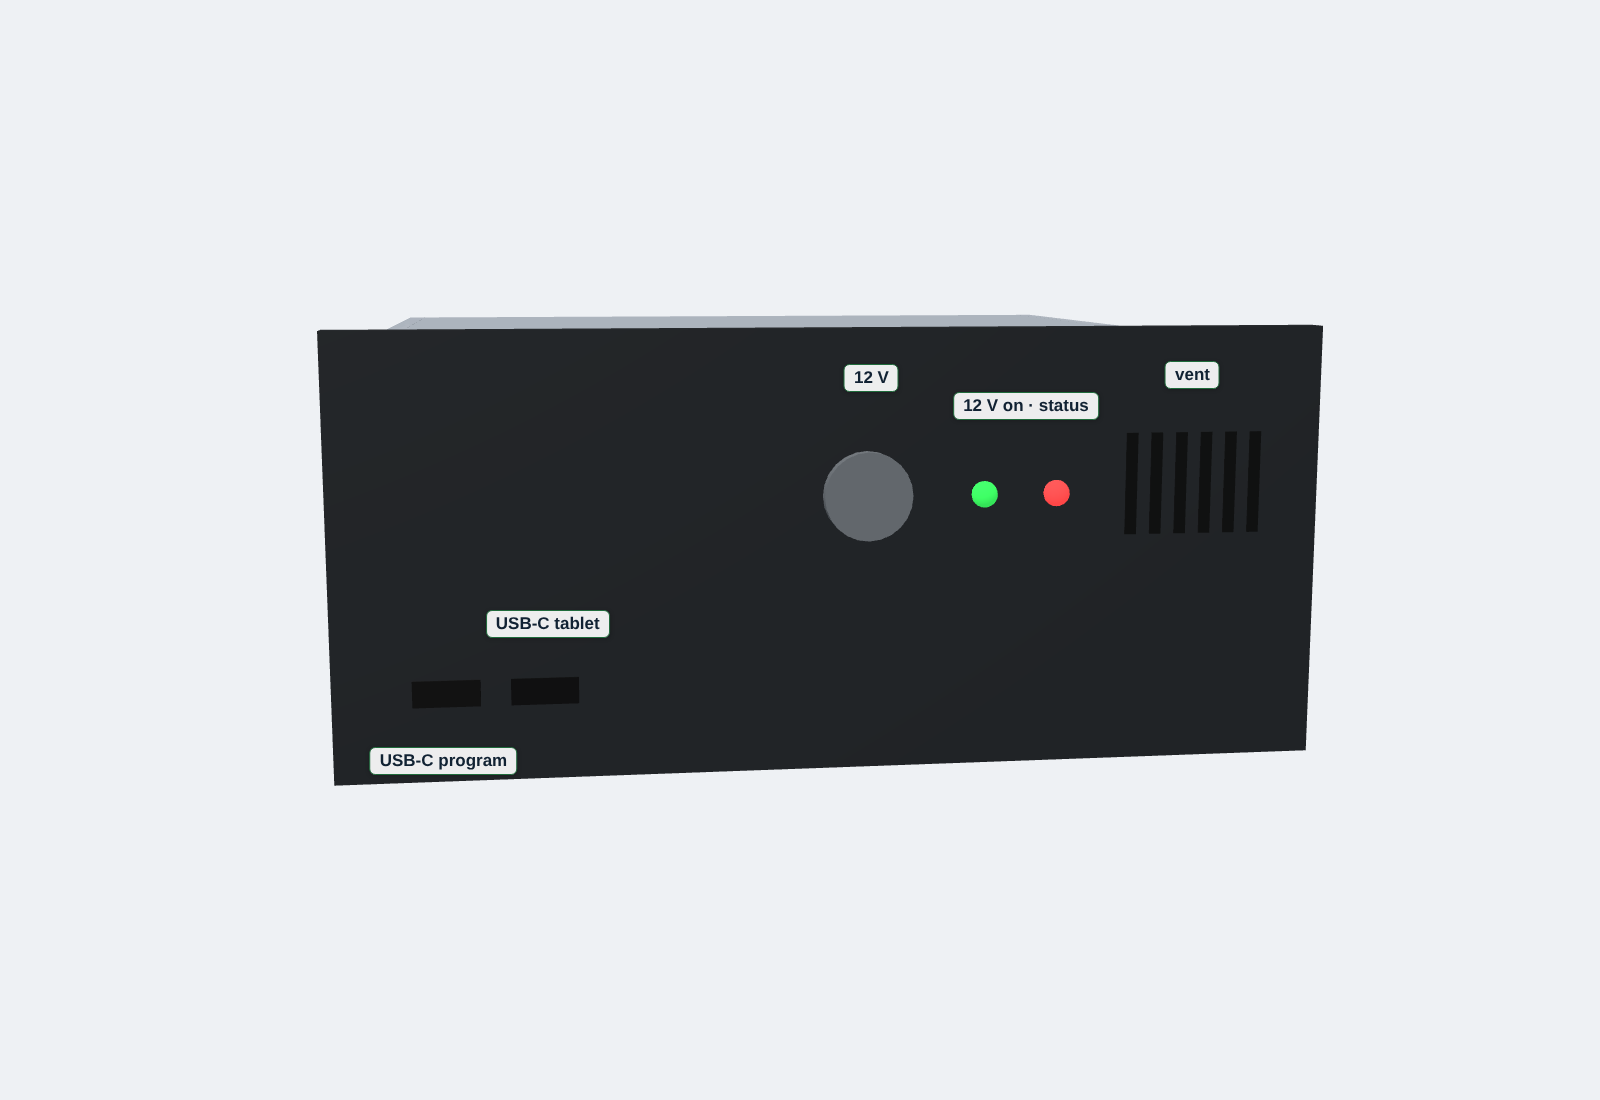
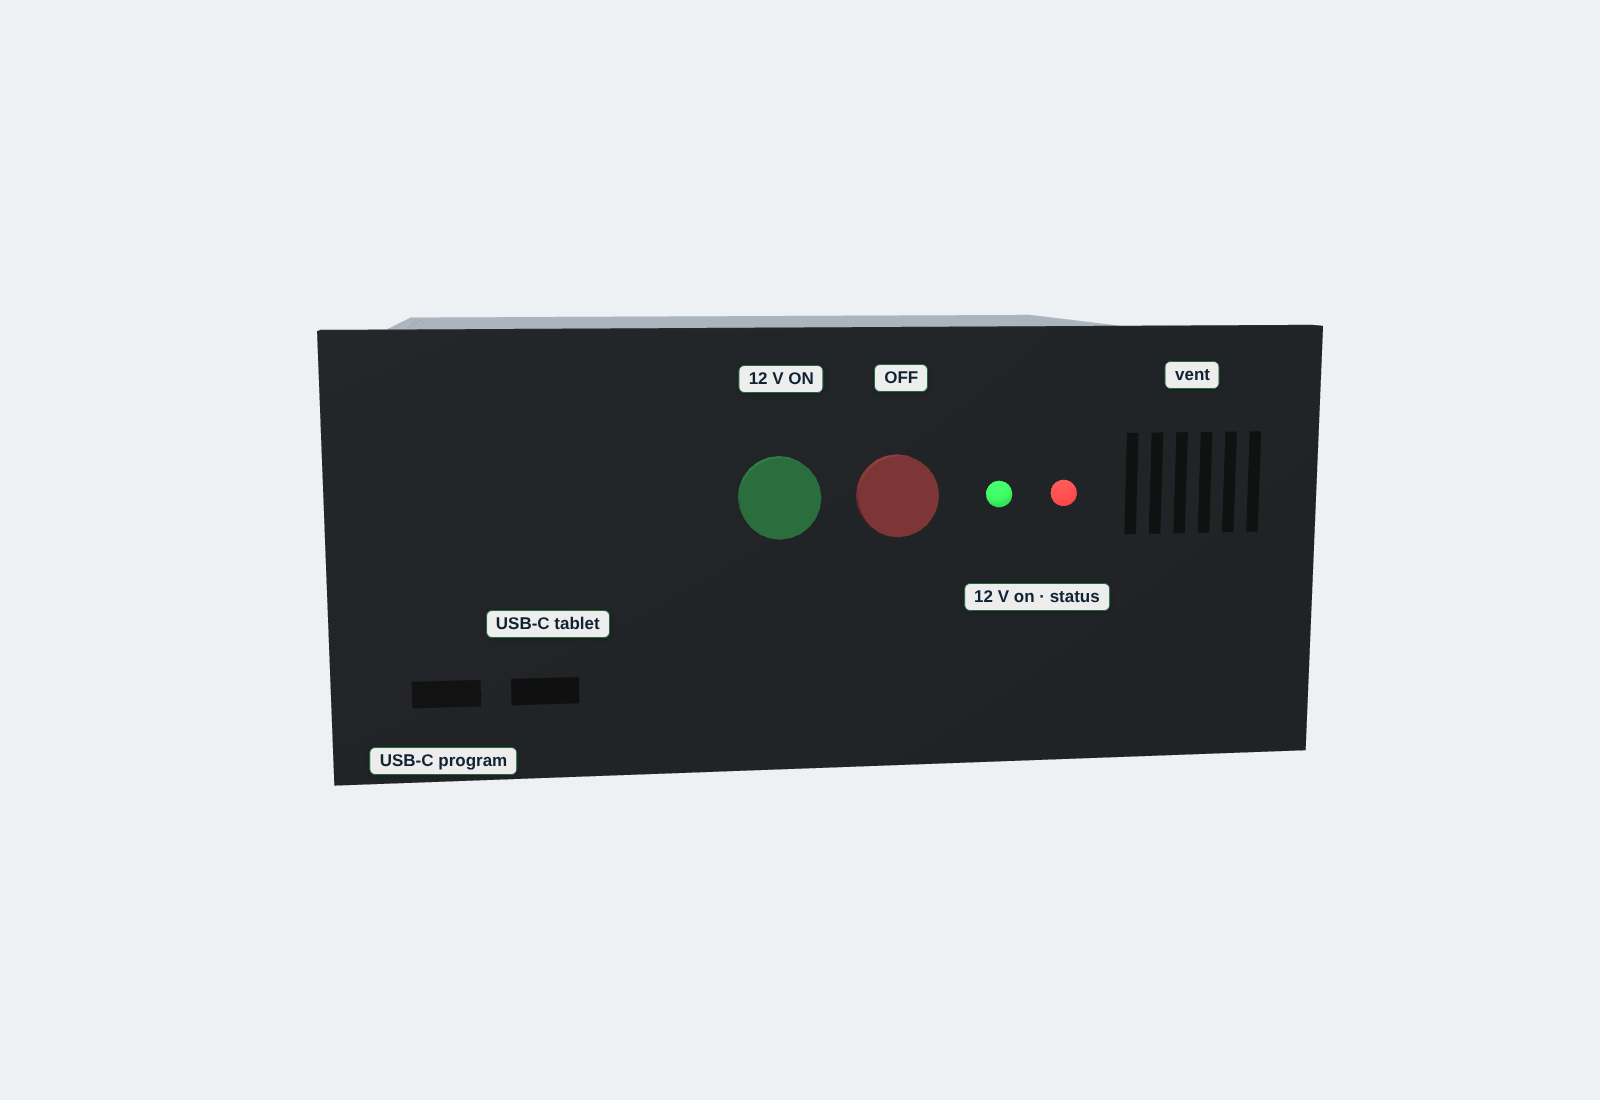
I/O board: hardware 12 V ON/OFF buttons, Output 1/2 naming, decisions (#88)
* Mods page: clean Water and Heater tabs, dial thermostat, settings folded below

Claude-Session: https://claude.ai/code/session_017Ac5dLa5nMit1aiT2DcVLT

* Mods page: remove the Pi power supply card from the Overview

The small Low power chip top right stays, only while the supply is too low.

Claude-Session: https://claude.ai/code/session_017Ac5dLa5nMit1aiT2DcVLT

* Mods page: update progress stays when you switch tabs and come back

The progress of the Venus OS mods update (Update tab) and of the sensor
firmware update (Water tab) is kept outside the tab and shown again on
return; after a reload a running update is picked up and followed.

Claude-Session: https://claude.ai/code/session_017Ac5dLa5nMit1aiT2DcVLT

* Sensor update log says Wi-Fi when the Pi talks to the sensor over Wi-Fi

The water driver sends the firmware over its own link, which is the Wi-Fi
network when it reaches the sensor that way; the log said Bluetooth.

Claude-Session: https://claude.ai/code/session_017Ac5dLa5nMit1aiT2DcVLT

* Update log kept on the Update tab; Water debug log shows Wi-Fi readings

- Update tab: the log of the last update is shown below (folded). After an
  update the page reloads onto the Update tab with that log open; it also
  stays when the check fails while the page server restarts.
- Debug -> Water: over Wi-Fi the reading is written too (when it changes,
  else once a minute); before only Bluetooth broadcasts were logged.
- Version 2.5.1.
[…]

Changed region(s): [[0.4375, 0.4018, 0.6875, 0.4945], [0.4375, 0.3091, 0.6875, 0.4018], [0.5938, 0.5255, 0.7188, 0.5564]]

diff --git a/docs/io-board.md b/docs/io-board.md
@@ -17,12 +17,12 @@ measured, the schematic is next.
 | **LT 100: EBL 119 on/off** | Short pulse to ground on ON (green) or OFF (yellow); reads "12 V on" (white) and mains (pink); battery voltage from the blue wire | **ST1**: Micro-Fit 6-pin, 2 rows |
 | **LT 100: fresh water** | The existing fresh water cable, now connected to the **pressure sensor** (QDY30A 0–3.3 V) and the water temperature probe at the tank | **ST2**: Micro-Fit 6-pin, 1 row |
 | **LT 100: grey water** | Rod sender, common + 4 rods | **ST3**: Micro-Fit 5-pin, 1 row |
-| 12 V button + LED | Push button on the front plate: 12 V system on/off, also without Wi-Fi or the tablet; green LED driven straight by the "12 V on" wire | front plate |
+| 12 V ON / OFF buttons + LED | Two push buttons on the front plate, wired **straight to the EBL** (ST1 green / yellow) like the LT 100's buttons: they work even with the ESP32 off or being updated. Green LED driven straight by the "12 V on" wire | front plate |
 | Truma CP plus | LIN bus (TJA1021), **in and out**: two RJ12 sockets in parallel, so the board sits in the Truma cable chain | 2 × RJ12 |
 | USB-C programming | Flashing and serial log (ESP32 native USB), Boot and Reset buttons | USB-C |
 | USB-C tablet | Charging socket on the front plate, **USB PD up to 30 W** (PD charger chip, e.g. SW3516 or IP6557, from 12 V AUX), plain 5 V for devices without PD; the board can switch it off | USB-C, front plate |
 | 3 inputs | Isolated (optocoupler), 5–30 V; jumper per input: "12 V = on" or "contact to ground = on"; what each input means is set later in the settings | push-in |
-| 2 outputs, 5 A | Relays with changeover contact, C fed from 12 V AUX (5 A fuse each, solder jumper for a dry contact). **Output 1 = inside light**, **output 2 = outdoor light**, both two-way capable with a wall switch and with "light on" current sense | push-in |
+| Output 1, Output 2 | Relays with changeover contact, 5 A, C fed from 12 V AUX (5 A fuse each, solder jumper for a dry contact); both two-way capable with a wall switch and with an "output on" current sense. Use decided per output (e.g. a light) | push-in |
 | CP plus 12 V | Fused 12 V out (1 A PTC, from 12 V AUX) for the Truma CP plus panel's own supply wires (red, red/black) | push-in |
 | Tilt | Accelerometer LIS2DW12: levelling, water tank slope correction, movement | on the board |
 | Humidity + temperature | **SHT40** on the board (I²C), in the front plate area behind a vent slot, cut off from the warm parts by a slot in the board; replaces temperature probe 2 | on the board |
@@ -40,7 +40,7 @@ Every plug seen from the wire side, clip on top:
 
 The board sits **in place of the LT 100**: its casing slides in flat through the LT 100 opening
 and lies in the space behind the panel; its front plate closes the opening and carries the 12 V
-button and LED, the USB-C tablet socket and the status LED.
+ON/OFF buttons and LED, the USB-C tablet socket and the status LED.
 
 | | Size |
 |---|---|
@@ -144,15 +144,16 @@ cable from the CP plus in, the other out to the next device if there is one. **P
 also needs its own 12 V supply: the board's fused **CP plus 12 V** terminal. The TJA1021
 transceiver listens and answers like an iNet box (see [truma.md](truma.md)).
 
-## Outputs: 2 relays, 5 A
+## Output 1 and Output 2: 2 relays, 5 A
 
 Both relay commons are fed on the board from **12 V AUX**, each through its own 5 A fuse
 (blade or polyfuse), so the NO and NC terminals carry switched +12 V and only the load's wire
 goes to the board; the load's minus goes to ground. A solder jumper per relay separates C from
 the 12 V again, for a dry (potential-free) contact; C is still on a terminal for that.
 
-**Output 1: light.** The wall switch keeps working, also when the board's software has stopped:
-relay and switch form a two-way (stairway) circuit, now fed from the board's side.
+**Output 1 and Output 2** are identical. Example with a light and its wall switch: the wall switch keeps
+working, also when the board's software has stopped; relay and switch form a two-way (stairway)
+circuit, fed from the board's side.
 
 ```
  12 V AUX ── fuse 5 A ── current sense ── relay 1 C
@@ -165,15 +166,15 @@ relay and switch form a two-way (stairway) circuit, now fed from the board's sid
 * The round on/off rocker is replaced by a round **ON-ON changeover rocker** of the same size
   (3 tabs): A and B to the board's NO and NC, the middle tab to the lamp. Two wires from the
   board to the switch, the lamp wire stays at the switch.
-* **"Light on"** comes from a small current sensor on relay 1's feed (shunt + comparator): when
+* **"Output on"** comes from a small current sensor on each relay's feed (shunt + comparator): when
   the lamp draws current it is on, whichever way the switch and the relay stand. No extra wire.
-* **Decided: the light works with the EBL main switch off.** 12 V AUX is connected to the EBL's
+* **Decided: the outputs work with the EBL main switch off.** 12 V AUX is connected to the EBL's
   **Spare 4** output (block 5, pins 4 + / 5 −, fused in the EBL), which the main switch does not
   turn off. The EBL's low-voltage cut-off (below 10.5 V) still switches Spare 4 off, so a
   forgotten light can't drain the battery; the board warns before that from the battery voltage.
-* The relay stays where it is if the ESP32 restarts; only without power on 12 V AUX the light is off.
+* Normal (non-latching) relays (decided): they drop for a moment if the ESP32 restarts.
 
-**Output 2: outdoor light**, wired the same way: two-way with its own switch if it has one, or lamp + on NO only; its own "light on" sense (GPIO6).
+Without a wall switch: the load's + on NO only.
 
 ## Inputs (3)
 
@@ -215,12 +216,12 @@ All functions fit on the ESP32's own pins; no I/O expander or ADC chip.
 | I²C (tilt sensor, expansion) | 15, 16 |
 | Interrupt (tilt sensor, expansion) | 47 |
 | Truma LIN RX / TX / SLP | 17 / 18 / 21 |
-| Relay 1 (inside light) / relay 2 (outdoor light) | 38 / 39 |
-| "Light on" inside / outdoor (current sense) | 14 / 6 |
+| Output 1 / Output 2 relay | 38 / 39 |
+| Output 1 / 2 on (current sense) | 14 / 6 |
 | Inputs 1 / 2 / 3 | 11 / 12 / 13 |
 | EBL ON / OFF pulse | 35 / 36 |
 | EBL "12 V on" / mains | 37 / 42 |
-| 12 V button | 40 |
+| Free (was the 12 V button) | 40 |
 | USB tablet socket on/off | 41 |
 | RGB status LED | 48 |
 | USB-C programming | 19, 20 |

diff --git a/docs/io-board-schematic.md b/docs/io-board-schematic.md
@@ -10,7 +10,7 @@ part and value. It is the base for the KiCad schematic and layout, not yet a man
 | ![board](io-board/3d-board.png) | ![open](io-board/3d-case-open.png) | ![closed](io-board/3d-case-closed.png) |
 
 The casing slides through the LT 100 opening; the front plate (135 × 60 mm) closes it and carries
-the USB-C tablet socket, the 12 V button, the "12 V on" and status LEDs and the vent slots for the
+the USB-C tablet socket, the 12 V ON and OFF buttons, the "12 V on" and status LEDs and the vent slots for the
 humidity sensor. The programming USB-C sits behind the plate.
 
 ## Schematic sheets
@@ -19,7 +19,7 @@ humidity sensor. The programming USB-C sits behind the plate.
 2. [ESP32-S3](io-board/schematic/sheet2.png): module, USB-C programming, reset/boot, all pin assignments
 3. [EBL 119 and front plate](io-board/schematic/sheet3.png): ON/OFF photoMOS, "12 V on" and mains inputs, front LED and button
 4. [Tanks](io-board/schematic/sheet4.png): ST2 fresh water (pressure sensor + probe), ST3 grey rods
-5. [Lights](io-board/schematic/sheet5.png): inside and outdoor light relays with current sense
+5. [Outputs 1 and 2](io-board/schematic/sheet5.png): relays with current sense
 6. [Truma, CP plus 12 V, inputs](io-board/schematic/sheet6.png): LIN transceiver, RJ12 in/out, fused 12 V for the CP plus, 3 inputs
 7. [USB PD, sensors, expansion](io-board/schematic/sheet7.png): 30 W tablet charging, tilt + humidity, RJ45 expansion
 
@@ -33,12 +33,13 @@ humidity sensor. The programming USB-C sits behind the plate.
 | D1, D2 | SS34 | supply OR-ing, reverse polarity |
 | D4 | SMBJ24A | 12 V transient clamp |
 | F1 / F2 | 0.5 A PTC / 10 A blade fuse | ST1 supply / 12 V AUX |
-| U5, U6 | AQY212EH photoMOS | EBL ON / OFF pulses |
+| U5, U6 | AQY212EH photoMOS | EBL ON / OFF pulses from the ESP32 |
+| SW3, SW4 | front push buttons | EBL ON / OFF by hand (direct) |
 | U7, U8, U70–U72 | PC817 | "12 V on", mains, inputs 1–3 |
-| K1, K2 | 12 V relay, changeover, 5 A (e.g. Song Chuan 833H-1C-C) | inside and outdoor light |
+| K1, K2 | 12 V relay, changeover, 5 A (e.g. Song Chuan 833H-1C-C) | Output 1, Output 2 |
 | Q1, Q2 | AO3400 | relay drivers |
-| U11, U21 | INA180A3 + LMV331 | lamp current sense ("light on") |
-| F4, F5 | 5 A fuse | light outputs |
+| U11, U21 | INA180A3 + LMV331 | output current sense ("output on") |
+| F4, F5 | 5 A fuse | Output 1, Output 2 |
 | U60 | TJA1021T/20 | Truma LIN bus |
 | D60 | PESD1LIN | LIN ESD protection |
 | F6 | 1 A PTC | 12 V for the CP plus |
@@ -81,25 +82,18 @@ projects. What is right, what to check, and what I recommend changing.
   the bus: the new fused **CP plus 12 V** terminal feeds it from Spare 4, so heating, frost guard
   and timer keep working with the EBL main switch off.
 
-**Recommended changes (not yet in the drawings, your choice)**
+**Decisions**
 
-1. **A 12 V on/off that works without the ESP32.** With the LT 100 gone, the front button
-   needs the firmware: if the ESP32 is dead or being updated, nothing switches the 12 V on.
-   Fix: two small front buttons (ON, OFF) wired **directly** to ST1 green and yellow, exactly
-   like the LT 100's buttons; the ESP32 only reads them. About €1.
-2. **Latching (bistable) relays for the lights.** A normal relay drops for a moment whenever the
-   ESP32 restarts (power dip, firmware update): in the two-way circuit that **toggles the
-   light**. A latching relay keeps its position without power and saves about 35 mA per light.
-   It needs a second drive line per relay: GPIO45 and GPIO46 can do that (with pull-downs they
-   stay low at start-up, as those pins require).
-3. **Check the EBL Spare 4 fuse.** 12 V AUX can draw up to about 10 A (two lights, 30 W charging,
-   CP plus, expansion); the board's F2 is 10 A. The fuse in the EBL's Spare 4 slot must be at
-   least that, or the lights and charging share whatever it allows.
+1. **12 V on/off without the ESP32: done.** Two front buttons (ON, OFF) wired straight to ST1
+   green and yellow, like the LT 100's (sheet 3). The ESP32 still switches the EBL itself through
+   the photoMOS outputs and sees every change on the "12 V on" wire.
+2. **Relays: normal (non-latching), decided.** They drop for a moment when the ESP32 restarts.
+3. **EBL Spare 4 fuse: to check in the van.** 12 V AUX can draw up to about 10 A (both outputs,
+   30 W charging, CP plus, expansion); the board's F2 is 10 A.
 4. **Grey water sensor:** a passive 5-rod probe on about 5 m of cable. Its wire colours from the
    datasheet are uncertain (two of ge/gr): find the common and each level with the beep test.
-   The rod inputs now use 10 kΩ series, 100 nF and 100 kΩ pull-down (sheet 4) for the long cable.
-5. **RJ45 carries 12 V.** Keep the "NOT ETHERNET" label on the casing, or use a different plug
-   (e.g. a 6-pin Micro-Fit) so nobody plugs a network cable in by mistake.
+   The rod inputs use 10 kΩ series, 100 nF and 100 kΩ pull-down (sheet 4) for the long cable.
+5. **RJ45 stays**, labelled "EXPANSION – NOT ETHERNET" on the casing.
 
 **Next steps**
 
